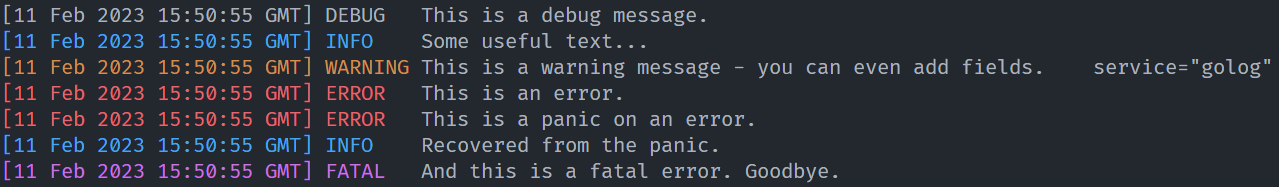
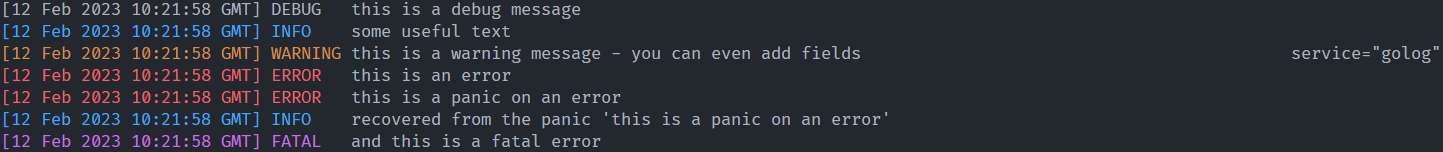
Update `README.md`

diff --git a/examples/simple_example.go b/examples/simple_example.go
@@ -7,42 +7,46 @@ import (
 	"github.com/skifli/golog"
 )
 
+// Create the logger with the console log already configured.
+var logger = golog.NewLogger([]*golog.Log{
+	golog.NewLog(
+		[]*os.File{
+			os.Stderr,
+		},
+		golog.FormatterHuman,
+	),
+})
+
 func main() {
 	logFile, err := os.OpenFile("simple_example.log", os.O_CREATE|os.O_APPEND, 0777)
 
 	if err != nil {
-		panic(err)
+		logger.Panic(err, nil)
 	}
 
-	// Create the logger with the logs already configured.
-	// Logs can also be added / removed later.
-	logger := golog.NewLogger([]*golog.Log{
-		golog.NewLog(
-			[]*os.File{
-				os.Stderr,
-			},
-			golog.FormatterHuman,
-		),
-		golog.NewLog(
-			[]*os.File{
-				logFile,
-			},
-			golog.FormatterJSON,
-		),
-	})
+	// Add the file log to the logger.
+	logger.AddLog(golog.NewLog(
+		[]*os.File{
+			logFile,
+		},
+		golog.FormatterJSON,
+	))
 
+	// Will be run after the 'logger.Panic' call.
 	defer func() {
-		logger.Info("Recovered from the panic.", nil)
-		logger.Fatal("And this is a fatal error. Goodbye.", nil)
+		if r := recover(); r != nil {
+			logger.Infof("recovered from the panic '%v'", nil, r)
+			logger.Fatal("and this is a fatal error", nil)
+		}
 	}()
 
-	logger.Debugf("This is a %s message.", nil, "debug")
-	logger.Info("Some useful text...", nil)
+	logger.Debugf("this is a %s message", nil, "debug")
+	logger.Info("some useful text", nil)
 	logger.Warningf(
-		"This is a %s message - you can even add fields.",
+		"this is a %s message - you can even add fields",
 		golog.Fields{"service": "golog"},
 		"warning",
 	)
-	logger.Error("This is an error.", nil)
-	logger.Panic(errors.New("This is a panic on an error."), nil)
+	logger.Error("this is an error", nil)
+	logger.Panic(errors.New("this is a panic on an error"), nil)
 }

diff --git a/README.md b/README.md
@@ -5,10 +5,9 @@
 ![Lines of Code](https://img.shields.io/github/languages/code-size/skifli/golog)
 
 - [golog](#golog)
-  - [Installation](#installation)
-  - [Documentation](#documentation)
-
-[![Example Output](examples/simple_example.png)](examples/simple_example.go)
+	- [Installation](#installation)
+	- [Example](#example)
+	- [Documentation](#documentation)
 
 **golog** implements a logging infrastructure for Go. It focuses on performance, while providing a simple API.
 
@@ -20,20 +19,18 @@
 go get github.com/skifli/golog
 ```
 
-After this command has been run, **golog** is ready to use. You can find the source code of your installation in:
+After this command has been run, **golog** is ready to use. **golog** can be updated by using *go get -u*:
 
 ```
-$GOPATH/src/pkg/mod/github.com/skifli/golog@VERSION_INSTALLED
+go get -u github.com/skifli/golog
 ```
 
-You can use **`go get -u`** to update the package.
+## Example
+
+The [example](examples/simple_example.go) demonstrates the majority of the features found in **golog**.
+
+[![Example Output](examples/simple_example.png)](examples/simple_example.go)
 
 ## Documentation
 
-See the [godoc reference](https://pkg.go.dev/github.com/skifli/golog), or run:
-
-```
-godoc -http localhost:6060
-```
-
-and navigate to [http://localhost:6060/pkg/github.com/skifli/golog/](http://localhost:6060/pkg/github.com/skifli/golog/).
+See the [godoc reference](https://pkg.go.dev/github.com/skifli/golog).
